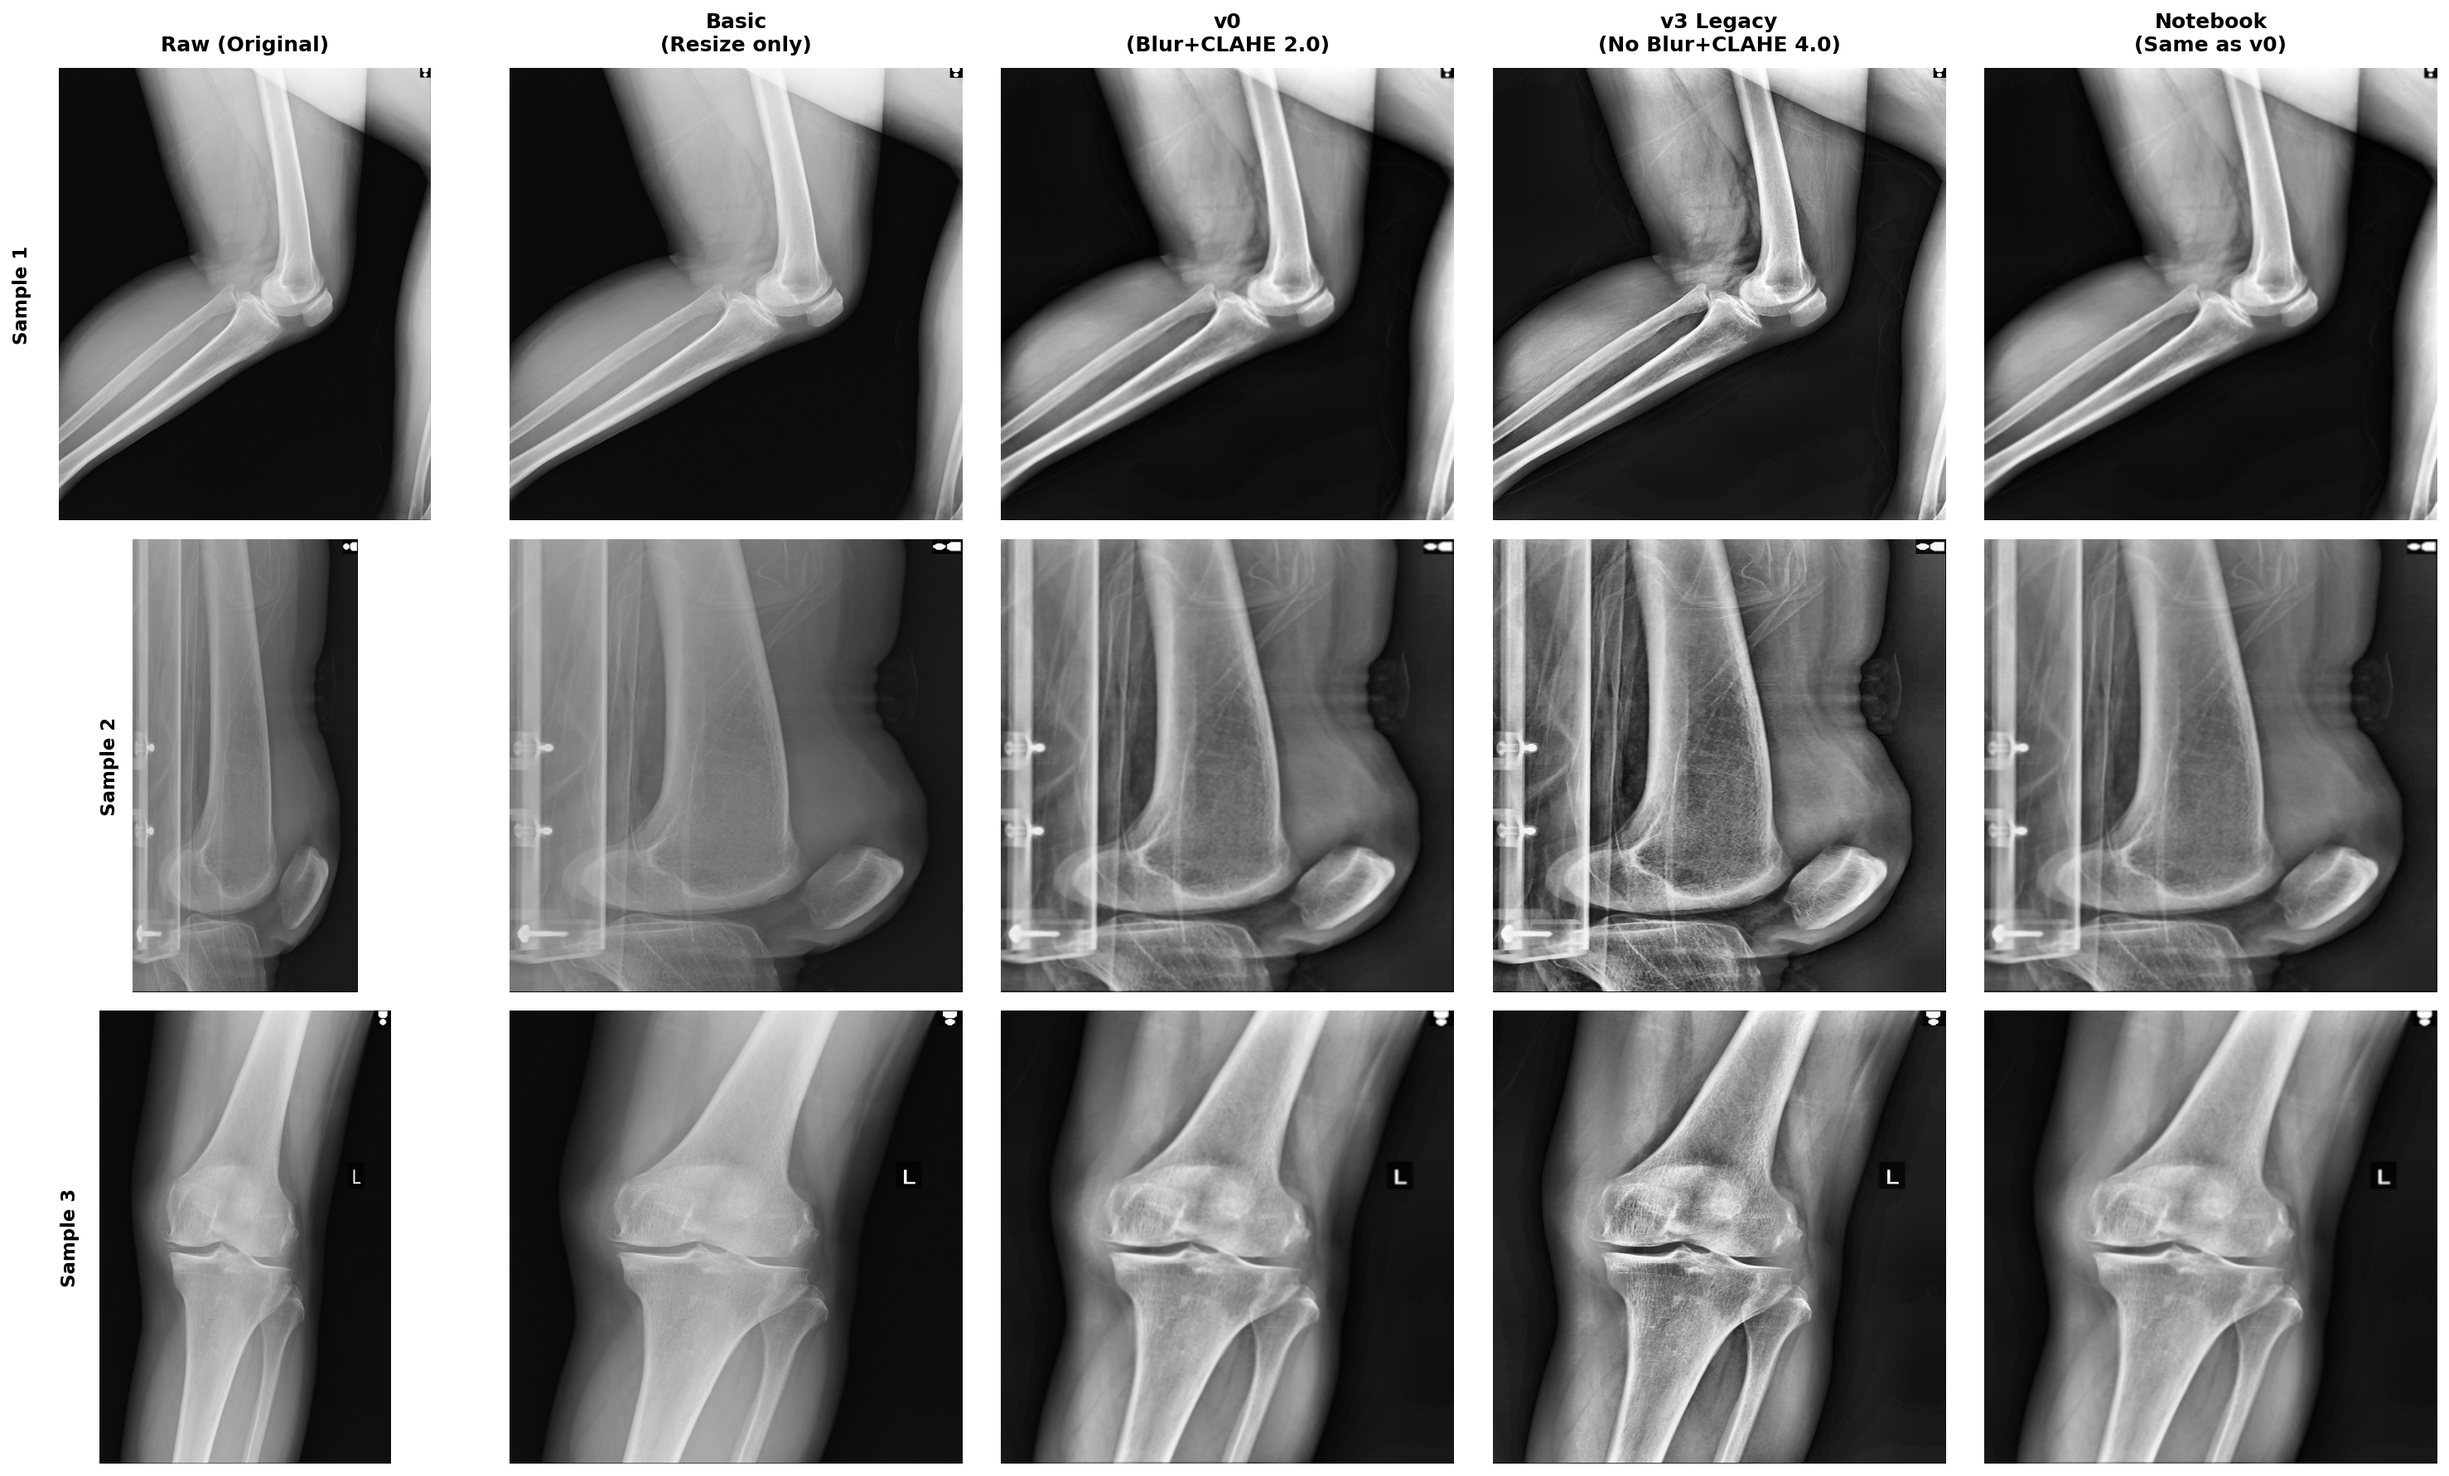
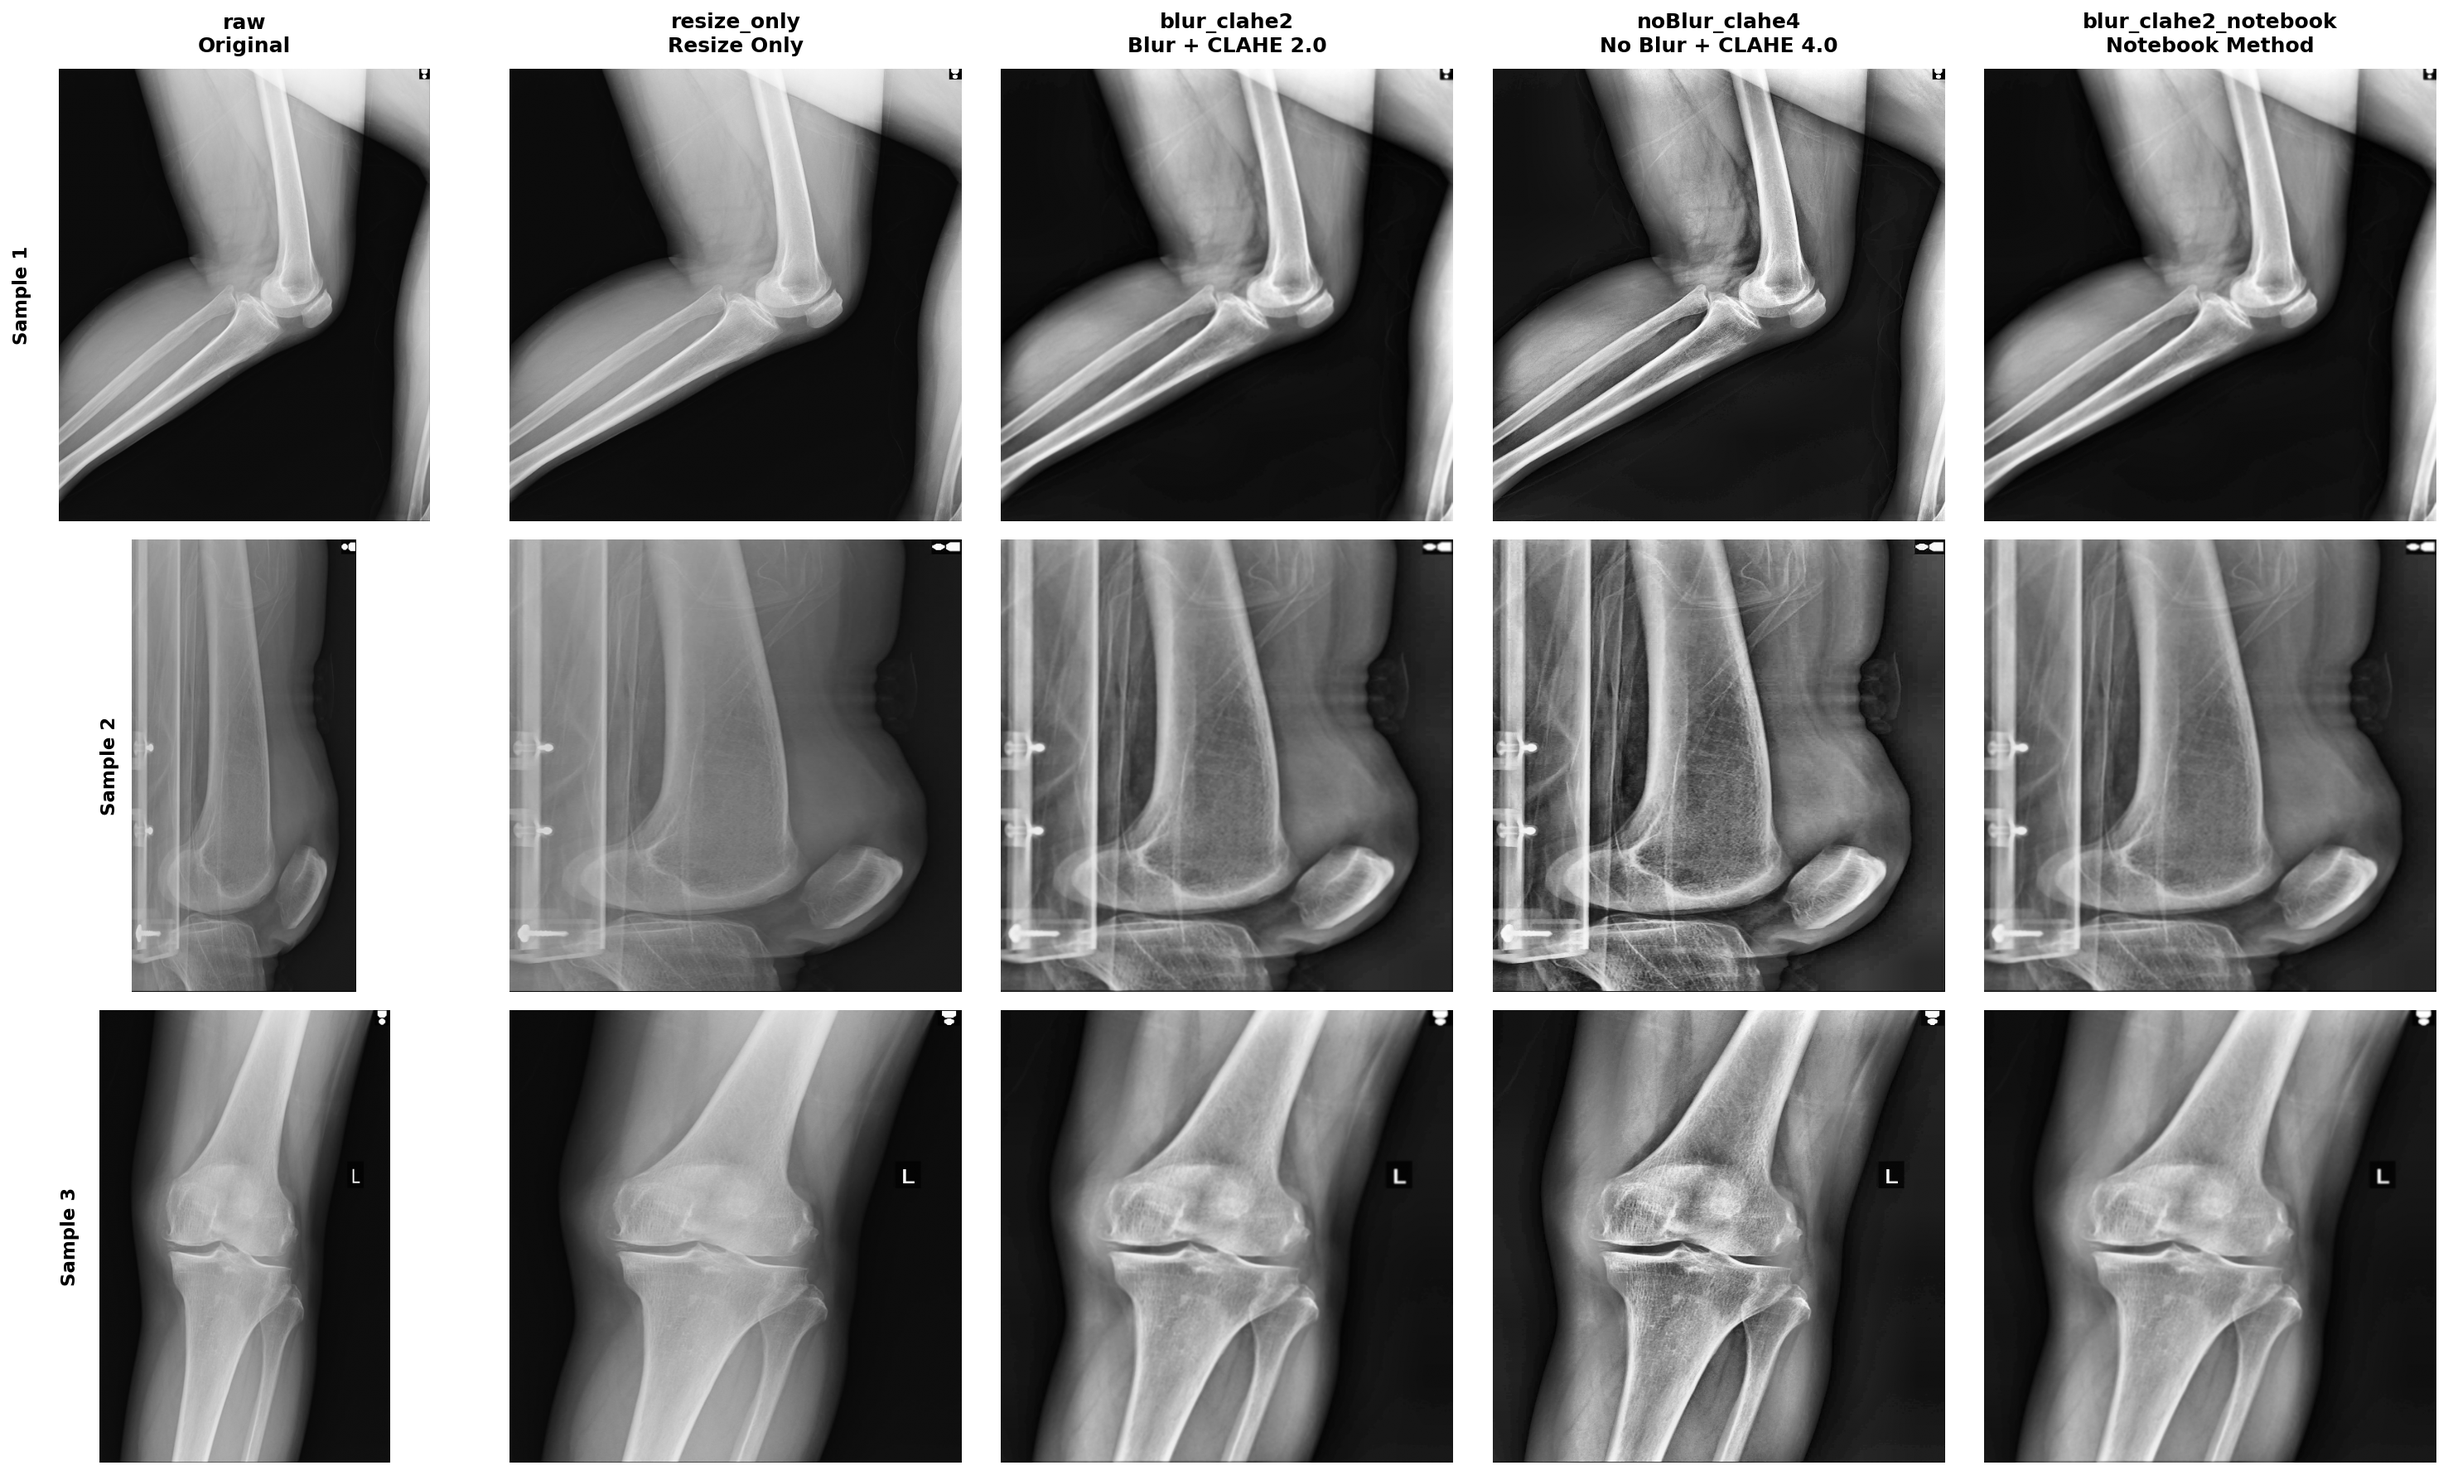
feat: Implement and document a comprehensive data processing and YOLO model training pipeline, including new configurations and scripts.

diff --git a/examples/preprocessing_custom.py b/examples/preprocessing_custom.py
@@ -36,12 +36,12 @@ def example_1_basic_preprocessing():
     print("\n=== Example 1: Basic Preprocessing ===")
 
     # Load image
-    image_path = project_root / "datasets" / "dataset" / "dataset_v0" / "images"
-    jpg_files = list(image_path.glob("*.jpg"))
-    if not jpg_files:
-        print(f"No .jpg files found in {image_path}")
+    image_path = project_root / "datasets" / "dataset_v0" / "images"
+    image_files = list(image_path.glob("*.jpg")) + list(image_path.glob("*.png"))
+    if not image_files:
+        print(f"No image files found in {image_path}")
         return
-    sample_img = jpg_files[0]
+    sample_img = image_files[0]
     image = load_image(sample_img, mode="grayscale")
 
     # Apply basic preprocessing
@@ -49,7 +49,9 @@ def example_1_basic_preprocessing():
     processed_img, _ = pipeline(image)
 
     # Save result
-    output_path = project_root / "datasets" / "data_examples" / "basic_example.png"
+    output_path = (
+        project_root / "datasets" / "data_examples" / "comparison" / "basic_example.png"
+    )
     save_image(processed_img, output_path)
     print(f"Saved to: {output_path}")
 
@@ -59,8 +61,12 @@ def example_2_v0_preprocessing():
     print("\n=== Example 2: v0 Preprocessing ===")
 
     # Load image
-    image_path = project_root / "datasets" / "dataset" / "dataset_v0" / "images"
-    sample_img = list(image_path.glob("*.jpg"))[0]
+    image_path = project_root / "datasets" / "dataset_v0" / "images"
+    image_files = list(image_path.glob("*.jpg")) + list(image_path.glob("*.png"))
+    if not image_files:
+        print(f"No image files found in {image_path}")
+        return
+    sample_img = image_files[0]
     image = load_image(sample_img, mode="grayscale")
 
     # Apply v0 preprocessing
@@ -68,7 +74,9 @@ def example_2_v0_preprocessing():
     processed_img, _ = pipeline(image)
 
     # Save result
-    output_path = project_root / "datasets" / "data_examples" / "v0_example.png"
+    output_path = (
+        project_root / "datasets" / "data_examples" / "comparison" / "v0_example.png"
+    )
     save_image(processed_img, output_path)
     print(f"Saved to: {output_path}")
 
@@ -78,8 +86,8 @@ def example_3_custom_pipeline():
     print("\n=== Example 3: Custom Pipeline ===")
 
     # Load image
-    image_path = project_root / "datasets" / "dataset" / "dataset_v0" / "images"
-    sample_img = list(image_path.glob("*.jpg"))[0]
+    image_path = project_root / "datasets" / "dataset_v0" / "images"
+    sample_img = (list(image_path.glob("*.jpg")) + list(image_path.glob("*.png")))[0]
     image = load_image(sample_img, mode="grayscale")
 
     # Create custom pipeline: No blur, high CLAHE
@@ -89,7 +97,13 @@ def example_3_custom_pipeline():
     processed_img, _ = pipeline(image)
 
     # Save result
-    output_path = project_root / "datasets" / "data_examples" / "custom_example.png"
+    output_path = (
+        project_root
+        / "datasets"
+        / "data_examples"
+        / "comparison"
+        / "custom_example.png"
+    )
     save_image(processed_img, output_path)
     print(f"Saved to: {output_path}")
 
@@ -99,8 +113,8 @@ def example_4_fully_custom():
     print("\n=== Example 4: Fully Custom Composition ===")
 
     # Load image
-    image_path = project_root / "datasets" / "dataset" / "dataset_v0" / "images"
-    sample_img = list(image_path.glob("*.jpg"))[0]
+    image_path = project_root / "datasets" / "dataset_v0" / "images"
+    sample_img = (list(image_path.glob("*.jpg")) + list(image_path.glob("*.png")))[0]
     image = load_image(sample_img, mode="grayscale")
 
     # Build custom pipeline step by step
@@ -119,7 +133,11 @@ def example_4_fully_custom():
 
     # Save result
     output_path = (
-        project_root / "datasets" / "data_examples" / "fully_custom_example.png"
+        project_root
+        / "datasets"
+        / "data_examples"
+        / "comparison"
+        / "fully_custom_example.png"
     )
     save_image(processed_img, output_path)
     print(f"Saved to: {output_path}")
@@ -130,8 +148,8 @@ def example_5_with_augmentation():
     print("\n=== Example 5: With Augmentation ===")
 
     # Load image
-    image_path = project_root / "datasets" / "dataset" / "dataset_v0" / "images"
-    sample_img = list(image_path.glob("*.jpg"))[0]
+    image_path = project_root / "datasets" / "dataset_v0" / "images"
+    sample_img = (list(image_path.glob("*.jpg")) + list(image_path.glob("*.png")))[0]
     image = load_image(sample_img, mode="grayscale")
 
     # Pipeline with horizontal flip
@@ -148,7 +166,13 @@ def example_5_with_augmentation():
     processed_img, _ = pipeline(image, labels=None)
 
     # Save result
-    output_path = project_root / "datasets" / "data_examples" / "augmented_example.png"
+    output_path = (
+        project_root
+        / "datasets"
+        / "data_examples"
+        / "comparison"
+        / "augmented_example.png"
+    )
     save_image(processed_img, output_path)
     print(f"Saved to: {output_path}")
 
@@ -158,15 +182,15 @@ def example_6_compare_presets():
     print("\n=== Example 6: Compare All Presets ===")
 
     # Load image
-    image_path = project_root / "datasets" / "dataset" / "dataset_v0" / "images"
-    sample_img = list(image_path.glob("*.jpg"))[0]
+    image_path = project_root / "datasets" / "dataset_v0" / "images"
+    sample_img = (list(image_path.glob("*.jpg")) + list(image_path.glob("*.png")))[0]
     image = load_image(sample_img, mode="grayscale")
 
     presets = {
-        "basic": get_basic_pipeline(),
-        "v0": get_v0_pipeline(),
-        "v3_legacy": get_v3_legacy_pipeline(),
-        "notebook": get_notebook_pipeline(),
+        "resize_only": get_basic_pipeline(),
+        "blur_clahe2": get_v0_pipeline(),
+        "noBlur_clahe4": get_v3_legacy_pipeline(),
+        "blur_clahe2_notebook": get_notebook_pipeline(),
     }
 
     output_dir = project_root / "datasets" / "data_examples" / "comparison"
@@ -181,7 +205,7 @@ def example_6_compare_presets():
 
 if __name__ == "__main__":
     # Create output directory
-    output_dir = project_root / "datasets" / "data_examples"
+    output_dir = project_root / "datasets" / "data_examples" / "comparison"
     output_dir.mkdir(parents=True, exist_ok=True)
 
     # Run all examples

diff --git a/examples/preprocessing_comparison.py b/examples/preprocessing_comparison.py
@@ -31,23 +31,23 @@ def create_comparison_visualization(num_samples=3):
     print("Creating preprocessing comparison visualization...")
 
     # Load sample images
-    image_path = project_root / "datasets" / "dataset" / "dataset_v0" / "images"
-    jpg_files = list(image_path.glob("*.jpg"))
+    image_path = project_root / "datasets" / "dataset_v0" / "images"
+    image_files = list(image_path.glob("*.jpg")) + list(image_path.glob("*.png"))
 
-    if not jpg_files:
+    if not image_files:
         print(f"No .jpg files found in {image_path}")
         return
 
     # Take first N samples
-    samples = jpg_files[:num_samples]
+    samples = image_files[:num_samples]
 
-    # Define preprocessing methods
+    # Define preprocessing methods with technical names
     presets = {
-        "Raw (Original)": None,  # No preprocessing
-        "Basic\n(Resize only)": get_basic_pipeline(),
-        "v0\n(Blur+CLAHE 2.0)": get_v0_pipeline(),
-        "v3 Legacy\n(No Blur+CLAHE 4.0)": get_v3_legacy_pipeline(),
-        "Notebook\n(Same as v0)": get_notebook_pipeline(),
+        "raw": (None, "Original"),
+        "resize_only": (get_basic_pipeline(), "Resize Only"),
+        "blur_clahe2": (get_v0_pipeline(), "Blur + CLAHE 2.0"),
+        "noBlur_clahe4": (get_v3_legacy_pipeline(), "No Blur + CLAHE 4.0"),
+        "blur_clahe2_notebook": (get_notebook_pipeline(), "Notebook Method"),
     }
 
     # Create figure
@@ -68,8 +68,8 @@ def create_comparison_visualization(num_samples=3):
         raw_image = load_image(sample_img_path, mode="grayscale")
 
         # Process with each method
-        for j, (method_name, pipeline) in enumerate(presets.items()):
-            ax = axes[i, j]
+        for col, (preset_name, (pipeline, desc)) in enumerate(presets.items()):
+            ax = axes[i, col]
 
             if pipeline is None:
                 # Show raw image
@@ -84,10 +84,12 @@ def create_comparison_visualization(num_samples=3):
 
             # Add title only on first row
             if i == 0:
-                ax.set_title(method_name, fontsize=12, fontweight="bold", pad=10)
+                ax.set_title(
+                    f"{preset_name}\n{desc}", fontsize=12, fontweight="bold", pad=10
+                )
 
             # Add sample number on left
-            if j == 0:
+            if col == 0:
                 ax.text(
                     -0.1,
                     0.5,
@@ -104,7 +106,11 @@ def create_comparison_visualization(num_samples=3):
 
     # Save comparison
     output_path = (
-        project_root / "datasets" / "data_examples" / "comparison_raw_vs_processed.png"
+        project_root
+        / "datasets"
+        / "data_examples"
+        / "comparison"
+        / "comparison_raw_vs_processed.png"
     )
     output_path.parent.mkdir(parents=True, exist_ok=True)
     plt.savefig(output_path, dpi=150, bbox_inches="tight")
@@ -120,29 +126,29 @@ def create_detailed_comparison_single_image():
     print("\nCreating detailed single-image comparison...")
 
     # Load one sample
-    image_path = project_root / "datasets" / "dataset" / "dataset_v0" / "images"
-    jpg_files = list(image_path.glob("*.jpg"))
+    image_path = project_root / "datasets" / "dataset_v0" / "images"
+    image_files = list(image_path.glob("*.jpg")) + list(image_path.glob("*.png"))
 
-    if not jpg_files:
+    if not image_files:
         print(f"No .jpg files found in {image_path}")
         return
 
-    sample_img_path = jpg_files[0]
+    sample_img_path = image_files[0]
     raw_image = load_image(sample_img_path, mode="grayscale")
 
-    # Define preprocessing methods
+    # Define preprocessing methods with technical names
     presets = {
-        "Raw": None,
-        "Basic": get_basic_pipeline(),
-        "v0": get_v0_pipeline(),
-        "v3 Legacy": get_v3_legacy_pipeline(),
+        "raw": (None, "Original"),
+        "resize_only": (get_basic_pipeline(), "Resize Only"),
+        "blur_clahe2": (get_v0_pipeline(), "Blur + CLAHE 2.0"),
+        "noBlur_clahe4": (get_v3_legacy_pipeline(), "No Blur + CLAHE 4.0"),
     }
 
     # Create figure with 2 rows: images + histograms
     fig = plt.figure(figsize=(20, 10))
     gs = fig.add_gridspec(2, len(presets), hspace=0.3, wspace=0.2)
 
-    for i, (method_name, pipeline) in enumerate(presets.items()):
+    for col, (preset_name, (pipeline, desc)) in enumerate(presets.items()):
         # Process image
         if pipeline is None:
             processed_img = raw_image
@@ -150,10 +156,10 @@ def create_detailed_comparison_single_image():
             processed_img, _ = pipeline(raw_image)
 
         # Image
-        ax_img = fig.add_subplot(gs[0, i])
+        ax_img = fig.add_subplot(gs[0, col])
         ax_img.imshow(processed_img, cmap="gray")
         ax_img.axis("off")
-        ax_img.set_title(method_name, fontsize=14, fontweight="bold")
+        ax_img.set_title(f"{preset_name}\n{desc}", fontsize=14, fontweight="bold")
 
         # Add statistics
         mean_val = np.mean(processed_img)
@@ -174,7 +180,7 @@ def create_detailed_comparison_single_image():
         )
 
         # Histogram
-        ax_hist = fig.add_subplot(gs[1, i])
+        ax_hist = fig.add_subplot(gs[1, col])
         ax_hist.hist(
             processed_img.ravel(), bins=50, color="blue", alpha=0.7, edgecolor="black"
         )
@@ -192,7 +198,11 @@ def create_detailed_comparison_single_image():
 
     # Save
     output_path = (
-        project_root / "datasets" / "data_examples" / "comparison_detailed.png"
+        project_root
+        / "datasets"
+        / "data_examples"
+        / "comparison"
+        / "comparison_detailed.png"
     )
     plt.savefig(output_path, dpi=150, bbox_inches="tight")
     print(f"✅ Saved detailed comparison to: {output_path}")
